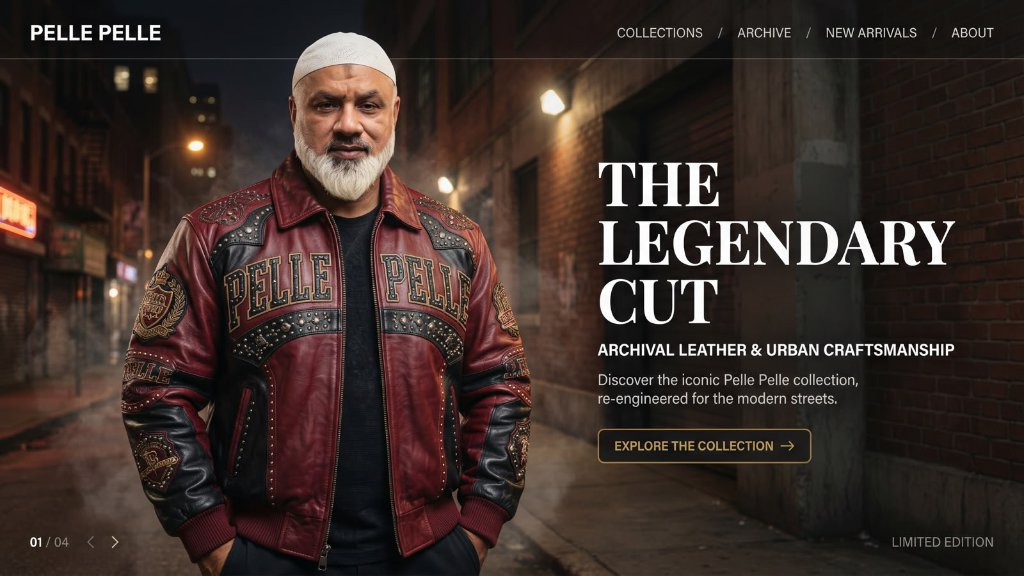
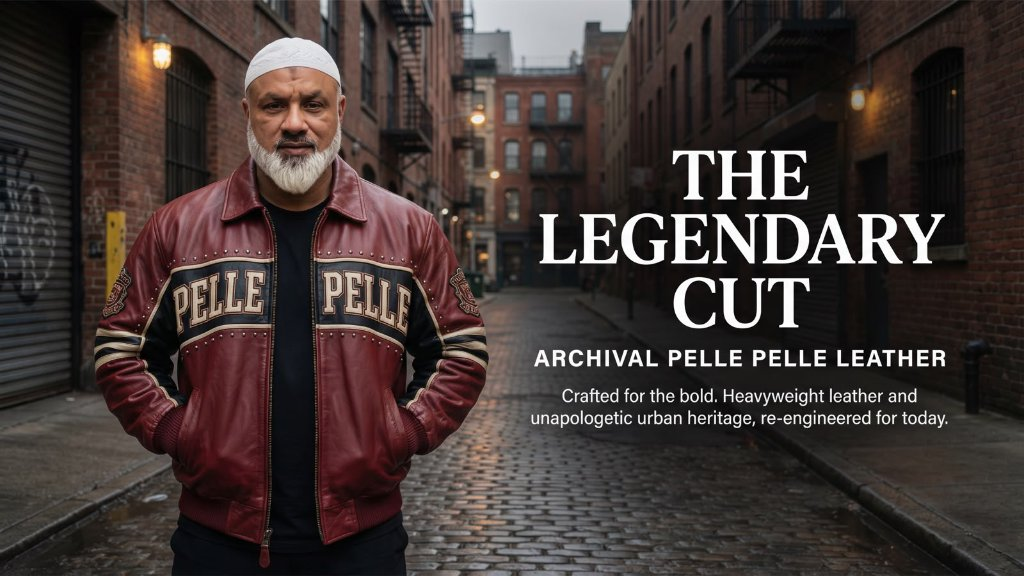
Update hero slides with clean high-res campaign images and optimize 100% mobile responsiveness

diff --git a/index.html b/index.html
@@ -173,9 +173,9 @@
       <div class="hero-slider-track" id="heroSliderTrack">
 
         <!-- Slide 1: The Legendary Cut -->
-        <article class="hero-slide active" data-index="0" aria-roledescription="slide" aria-label="Slide 1 of 3: The Legendary Cut">
+        <article class="hero-slide active" data-index="0" aria-roledescription="slide" aria-label="Slide 1 of 3: The Legendary Cut — Archival Pelle Pelle Leather">
           <a href="#catalog" class="hero-slide-link" title="Explore The Legendary Cut Collection">
-            <img src="hero-slides/slide1.jpg" alt="Pelle Pelle - The Legendary Cut, Archival Leather & Urban Craftsmanship" class="hero-slide-media" loading="eager" fetchpriority="high">
+            <img src="hero-slides/slide1.jpg" alt="Pelle Pelle - The Legendary Cut, Archival Pelle Pelle Leather" class="hero-slide-media" loading="eager" fetchpriority="high">
             <span class="hero-slide-action-pill">
               <span>EXPLORE ARCHIVE</span>
               <svg width="14" height="14" viewBox="0 0 24 24" fill="none" stroke="currentColor" stroke-width="2.4"><line x1="5" y1="12" x2="19" y2="12"></line><polyline points="12 5 19 12 12 19"></polyline></svg>
@@ -183,23 +183,23 @@
           </a>
         </article>
 
-        <!-- Slide 2: Born In The Streets -->
-        <article class="hero-slide" data-index="1" aria-roledescription="slide" aria-label="Slide 2 of 3: Born In The Streets - The 1978 Archive">
-          <a href="#catalog" class="hero-slide-link" title="Discover Born In The Streets Collection">
-            <img src="hero-slides/slide2.jpg" alt="Pelle Pelle - Born In The Streets, The Pelle Pelle 1978 Archive" class="hero-slide-media" loading="lazy">
+        <!-- Slide 2: Raw. Revered. Pelle Pelle. -->
+        <article class="hero-slide" data-index="1" aria-roledescription="slide" aria-label="Slide 2 of 3: Raw. Revered. Pelle Pelle. — The Heritage Collection">
+          <a href="#catalog" class="hero-slide-link" title="Discover The Heritage Collection">
+            <img src="hero-slides/slide2.jpg" alt="Pelle Pelle - Raw. Revered. Pelle Pelle. The Heritage Collection" class="hero-slide-media" loading="lazy">
             <span class="hero-slide-action-pill">
-              <span>DISCOVER THE DROP</span>
+              <span>HERITAGE DROP</span>
               <svg width="14" height="14" viewBox="0 0 24 24" fill="none" stroke="currentColor" stroke-width="2.4"><line x1="5" y1="12" x2="19" y2="12"></line><polyline points="12 5 19 12 12 19"></polyline></svg>
             </span>
           </a>
         </article>
 
-        <!-- Slide 3: Raw. Revered. Pelle Pelle. -->
-        <article class="hero-slide" data-index="2" aria-roledescription="slide" aria-label="Slide 3 of 3: Raw. Revered. Pelle Pelle. Cold Season Special Edition">
-          <a href="#catalog" class="hero-slide-link" title="Shop Raw Revered Cold Season Collection">
-            <img src="hero-slides/slide3.jpg" alt="Pelle Pelle - Raw. Revered. Pelle Pelle. The Cold Season Special Edition" class="hero-slide-media" loading="lazy">
+        <!-- Slide 3: Iconic By Nature -->
+        <article class="hero-slide" data-index="2" aria-roledescription="slide" aria-label="Slide 3 of 3: Iconic By Nature — The Pelle Pelle Archive">
+          <a href="#catalog" class="hero-slide-link" title="Shop Iconic By Nature Collection">
+            <img src="hero-slides/slide3.jpg" alt="Pelle Pelle - Iconic By Nature, The Pelle Pelle Archive" class="hero-slide-media" loading="lazy">
             <span class="hero-slide-action-pill">
-              <span>EXPLORE COLLECTION</span>
+              <span>EXPLORE ARCHIVE</span>
               <svg width="14" height="14" viewBox="0 0 24 24" fill="none" stroke="currentColor" stroke-width="2.4"><line x1="5" y1="12" x2="19" y2="12"></line><polyline points="12 5 19 12 12 19"></polyline></svg>
             </span>
           </a>

diff --git a/styles.css b/styles.css
@@ -728,7 +728,7 @@ button {
   margin: 0 auto;
   aspect-ratio: 16 / 9;
   max-height: 82vh;
-  min-height: 240px;
+  min-height: auto;
   background-color: #000000;
   overflow: hidden;
 }
@@ -748,7 +748,7 @@ button {
   opacity: 0;
   visibility: hidden;
   pointer-events: none;
-  transform: scale(1.02);
+  transform: scale(1.015);
   transition: opacity 0.75s cubic-bezier(0.25, 1, 0.5, 1),
               transform 1.1s cubic-bezier(0.25, 1, 0.5, 1),
               visibility 0.75s;
@@ -776,14 +776,15 @@ button {
 .hero-slide-media {
   width: 100%;
   height: 100%;
-  object-fit: cover;
+  object-fit: contain;
   object-position: center center;
   display: block;
+  background-color: #000000;
   transition: transform 1.2s cubic-bezier(0.16, 1, 0.3, 1);
 }
 
 .hero-slide-link:hover .hero-slide-media {
-  transform: scale(1.018);
+  transform: scale(1.015);
 }
 
 /* Subtle Interactive Action Pill */
@@ -819,9 +820,40 @@ button {
   box-shadow: 0 10px 28px rgba(230, 211, 184, 0.35);
 }
 
-@media (max-width: 820px) {
+@media (max-width: 768px) {
+  .hero-slider-wrap {
+    aspect-ratio: 16 / 9;
+    min-height: auto;
+    max-height: none;
+    width: 100%;
+  }
+
+  .hero-slide-media {
+    object-fit: contain;
+    background: #000000;
+  }
+
   .hero-slide-action-pill {
-    display: none;
+    display: inline-flex;
+    top: 12px;
+    bottom: auto;
+    right: 12px;
+    padding: 6px 12px;
+    font-size: 10px;
+    font-weight: 700;
+    gap: 5px;
+    letter-spacing: 0.05em;
+    background: rgba(14, 14, 14, 0.88);
+    backdrop-filter: blur(8px);
+    -webkit-backdrop-filter: blur(8px);
+    border: 1px solid rgba(230, 211, 184, 0.4);
+    box-shadow: 0 4px 14px rgba(0, 0, 0, 0.8);
+    z-index: 5;
+  }
+
+  .hero-slide-action-pill svg {
+    width: 12px;
+    height: 12px;
   }
 }
 
@@ -938,6 +970,25 @@ button {
 
 .hero-dot:hover:not(.active) {
   background: rgba(255, 255, 255, 0.7);
+}
+
+@media (max-width: 600px) {
+  .hero-slider-controls {
+    bottom: 8px;
+    padding: 3px 10px;
+    gap: 8px;
+  }
+  .hero-counter-current,
+  .hero-counter-total {
+    font-size: 10px;
+  }
+  .hero-dot {
+    width: 6px;
+    height: 6px;
+  }
+  .hero-dot.active {
+    width: 16px;
+  }
 }
 
 /* ==========================================================================
